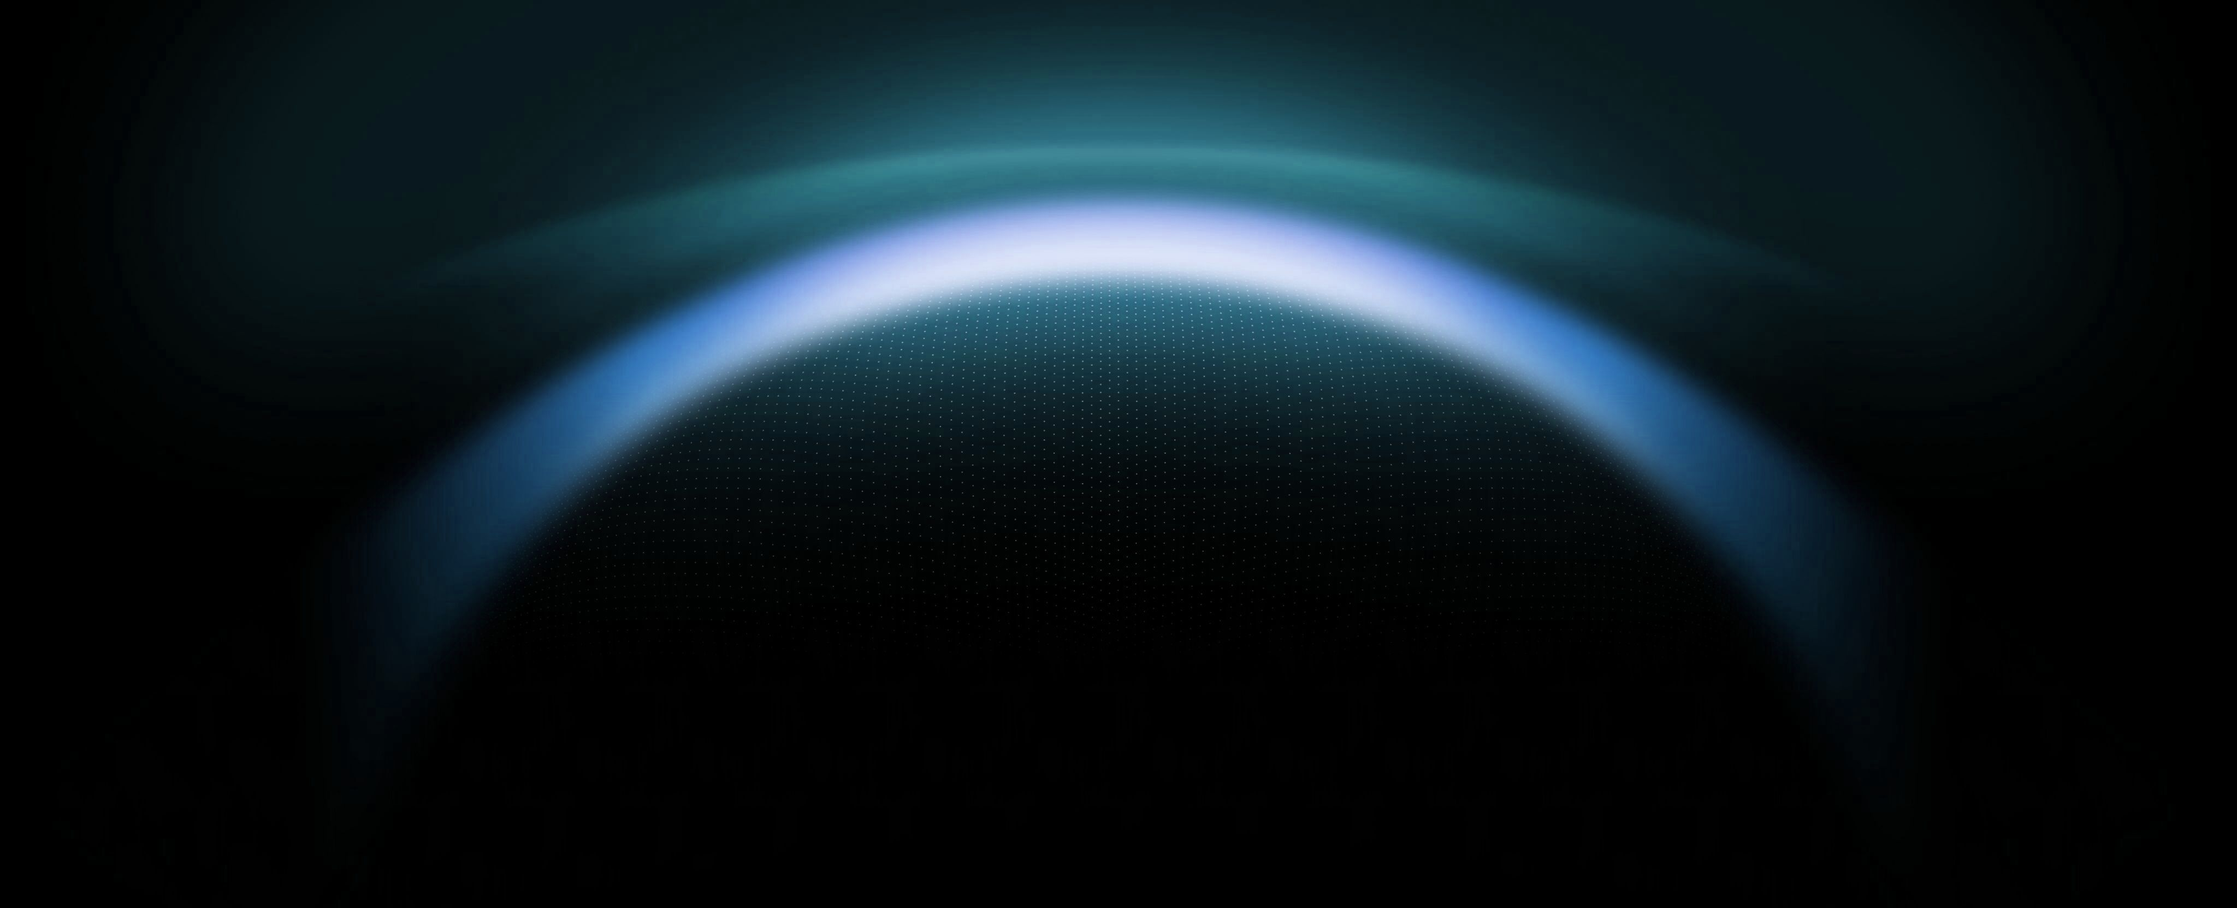
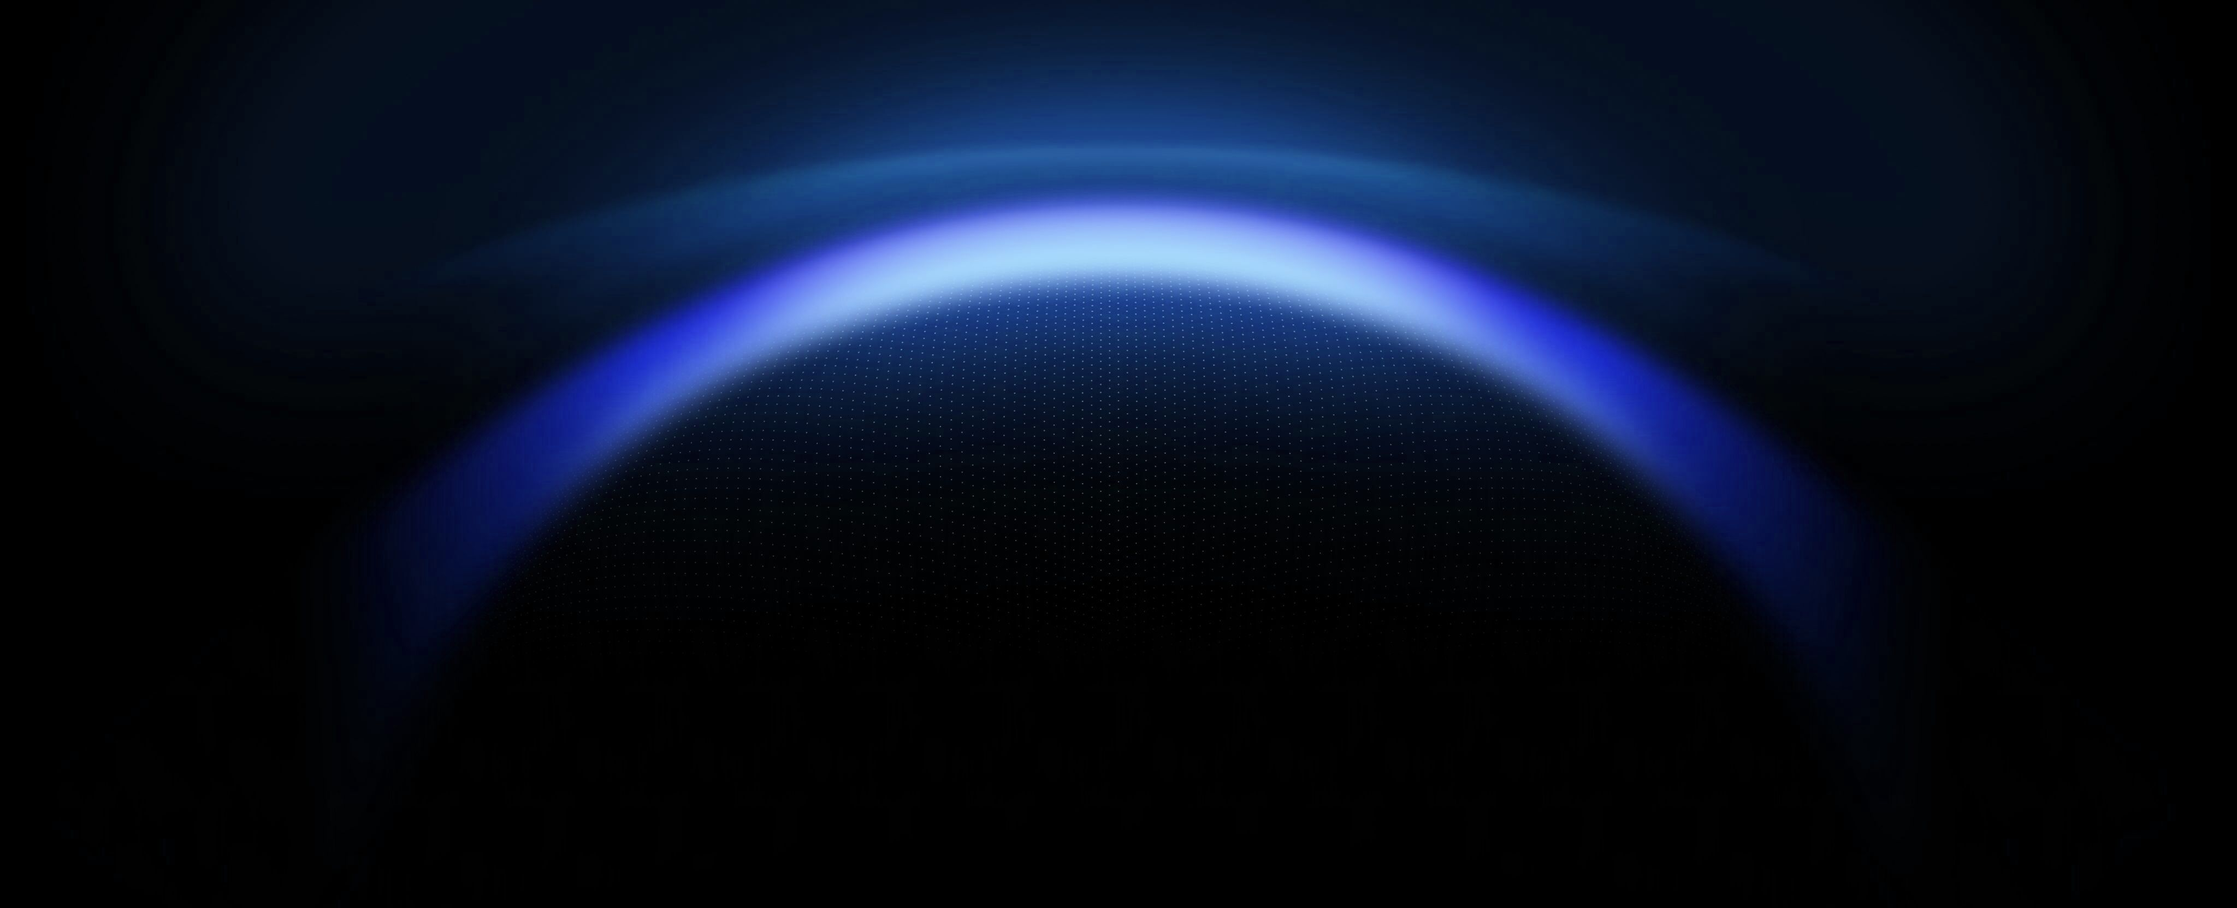
ui: reprocess all assets with hue shift + red channel reduction, derive CSS from image tones
Replaced the simple hue-shift technique with a two-step approach:
modulate hue ~36° plus 25% red channel reduction. This eliminates
purple completely and produces clean indigo-blue (#4564AC at 222°).

All CSS accent colors now derived from the actual image palette:
- Labels/text: #7B9AD4 (light blue, readable)
- Dots/indicators: #5A7BC0 (medium blue)
- Buttons: #4564AC gradient (matches hero bright band)
- Glows: rgba(69,100,172,...) (image-derived)
- Gradient strips: via-[#4564AC] (image accent)

Changed region(s): [[0.1875, 0.0613, 0.8125, 0.6133]]

diff --git a/website/src/app/version-1/page.tsx b/website/src/app/version-1/page.tsx
@@ -22,7 +22,7 @@ function Typewriter({ text, speed = 100 }: { text: string; speed?: number }) {
     <>
       {displayed}
       <span
-        className={`inline-block w-[2px] h-[0.9em] bg-[#adc9f0] align-middle ml-0.5 ${done ? "animate-blink" : ""}`}
+        className={`inline-block w-[2px] h-[0.9em] bg-[#5A7BC0] align-middle ml-0.5 ${done ? "animate-blink" : ""}`}
         aria-hidden="true"
       />
     </>
@@ -48,11 +48,11 @@ function CopyButton() {
         setCopied(true);
         setTimeout(() => setCopied(false), 2000);
       }}
-      className="flex items-center gap-1.5 px-3 py-1.5 bg-[#0c0c2a] hover:bg-[#181845] text-gray-400 hover:text-white text-xs font-mono rounded border border-[#adc9f0]/20 transition-all duration-200"
+      className="flex items-center gap-1.5 px-3 py-1.5 bg-[#0c0c2a] hover:bg-[#181845] text-gray-400 hover:text-white text-xs font-mono rounded border border-[#4564AC]/20 transition-all duration-200"
     >
       {copied ? (
         <>
-          <svg xmlns="http://www.w3.org/2000/svg" width="12" height="12" viewBox="0 0 24 24" fill="none" stroke="currentColor" strokeWidth="2" strokeLinecap="round" strokeLinejoin="round" className="text-[#adc9f0]"><polyline points="20 6 9 17 4 12"/></svg>
+          <svg xmlns="http://www.w3.org/2000/svg" width="12" height="12" viewBox="0 0 24 24" fill="none" stroke="currentColor" strokeWidth="2" strokeLinecap="round" strokeLinejoin="round" className="text-[#7B9AD4]"><polyline points="20 6 9 17 4 12"/></svg>
           copied
         </>
       ) : (
@@ -97,7 +97,7 @@ export default function VersionOne() {
         </div>
         <a
           href="#install"
-          className="rounded-full bg-gradient-to-r from-[#212177] to-[#3535a0] text-white px-5 py-2 text-sm font-medium transition-all duration-200 hover:shadow-[0_0_24px_rgba(173,201,240,0.3)] hover:from-[#3535a0] hover:to-[#4848b5]"
+          className="rounded-full bg-gradient-to-r from-[#3a5599] to-[#4564AC] text-white px-5 py-2 text-sm font-medium transition-all duration-200 hover:shadow-[0_0_24px_rgba(69,100,172,0.4)] hover:from-[#4564AC] hover:to-[#5A7BC0]"
         >
           Get started
         </a>
@@ -116,7 +116,7 @@ export default function VersionOne() {
         <div className="mt-10 flex justify-center gap-4 flex-wrap">
           <a
             href="#install"
-            className="rounded-full bg-gradient-to-r from-[#6b8fd4] to-[#adc9f0] text-[#010118] px-8 py-3.5 text-base font-medium transition-all duration-200 hover:shadow-[0_0_30px_rgba(173,201,240,0.5)] hover:brightness-110"
+            className="rounded-full bg-gradient-to-r from-[#4564AC] to-[#7B9AD4] text-white px-8 py-3.5 text-base font-medium transition-all duration-200 hover:shadow-[0_0_30px_rgba(69,100,172,0.5)] hover:brightness-110"
           >
             Start building
           </a>
@@ -155,13 +155,13 @@ export default function VersionOne() {
         <div
           className="pointer-events-none absolute left-1/2 -translate-x-1/2 top-1/2 -translate-y-1/2 w-[1000px] h-[600px] opacity-20 blur-3xl"
           style={{
-            background: "radial-gradient(ellipse at center, rgba(173,201,240,0.3) 0%, transparent 70%)",
+            background: "radial-gradient(ellipse at center, rgba(69,100,172,0.3) 0%, transparent 70%)",
           }}
         />
 
         <div className="max-w-6xl mx-auto relative">
           <div className="text-center mb-16">
-            <p className="text-sm font-mono uppercase tracking-widest text-[#adc9f0] mb-3">Capabilities</p>
+            <p className="text-sm font-mono uppercase tracking-widest text-[#7B9AD4] mb-3">Capabilities</p>
             <h2 className="text-3xl md:text-4xl font-bold mb-4">
               Talk naturally. Get quantified.
             </h2>
@@ -175,7 +175,7 @@ export default function VersionOne() {
           {/* Card 1 — Nutrition */}
           <div className="relative overflow-hidden rounded-xl border border-white/5 bg-[#080822] p-6 pb-8 min-h-[340px]">
             <div className="relative z-10">
-              <p className="text-xs font-bold uppercase tracking-widest text-[#adc9f0] mb-2">Nutrition</p>
+              <p className="text-xs font-bold uppercase tracking-widest text-[#7B9AD4] mb-2">Nutrition</p>
               <h3 className="text-xl font-bold text-white mb-3">Meal Snap</h3>
               <p className="text-sm text-gray-400 leading-relaxed max-w-[70%] drop-shadow-md">
                 Send a food photo or describe what you ate. Full micronutrient breakdown in seconds.
@@ -190,7 +190,7 @@ export default function VersionOne() {
           {/* Card 2 — Wearables */}
           <div className="relative overflow-hidden rounded-xl border border-white/5 bg-[#080822] p-6 pb-8 min-h-[340px]">
             <div className="relative z-10">
-              <p className="text-xs font-bold uppercase tracking-widest text-[#adc9f0] mb-2">Wearables</p>
+              <p className="text-xs font-bold uppercase tracking-widest text-[#7B9AD4] mb-2">Wearables</p>
               <h3 className="text-xl font-bold text-white mb-3">Pattern Insights</h3>
               <p className="text-sm text-gray-400 leading-relaxed max-w-[70%] drop-shadow-md">
                 Cross-references sleep, HRV, nutrition, and activity to surface hidden correlations.
@@ -205,7 +205,7 @@ export default function VersionOne() {
           {/* Card 3 — Coaching */}
           <div className="relative overflow-hidden rounded-xl border border-white/5 bg-[#080822] p-6 pb-8 min-h-[340px]">
             <div className="relative z-10">
-              <p className="text-xs font-bold uppercase tracking-widest text-[#adc9f0] mb-2">Coaching</p>
+              <p className="text-xs font-bold uppercase tracking-widest text-[#7B9AD4] mb-2">Coaching</p>
               <h3 className="text-xl font-bold text-white mb-3">Daily Coach</h3>
               <p className="text-sm text-gray-400 leading-relaxed max-w-[70%] drop-shadow-md">
                 Morning briefing with overnight sleep, nutrition gaps, active experiments, and longevity news.
@@ -219,8 +219,8 @@ export default function VersionOne() {
           </div>
 
           {/* Blue glow strip beneath cards */}
-          <div className="pointer-events-none absolute bottom-0 left-1/2 -translate-x-1/2 w-full max-w-3xl h-[1px] bg-gradient-to-r from-transparent via-[#adc9f0]/30 to-transparent" />
-          <div className="pointer-events-none absolute bottom-0 left-1/2 -translate-x-1/2 w-full max-w-3xl h-24 -translate-y-1/2 bg-[#adc9f0]/15 blur-[50px] -z-10" />
+          <div className="pointer-events-none absolute bottom-0 left-1/2 -translate-x-1/2 w-full max-w-3xl h-[1px] bg-gradient-to-r from-transparent via-[#4564AC]/30 to-transparent" />
+          <div className="pointer-events-none absolute bottom-0 left-1/2 -translate-x-1/2 w-full max-w-3xl h-24 -translate-y-1/2 bg-[#5A7BC0]/15 blur-[50px] -z-10" />
         </div>
       </section>
 
@@ -229,13 +229,13 @@ export default function VersionOne() {
         <div
           className="pointer-events-none absolute left-1/2 -translate-x-1/2 top-1/3 w-[1200px] h-[800px] opacity-15 blur-3xl"
           style={{
-            background: "radial-gradient(ellipse at center, rgba(173,201,240,0.3) 0%, transparent 70%)",
+            background: "radial-gradient(ellipse at center, rgba(69,100,172,0.3) 0%, transparent 70%)",
           }}
         />
 
         <div className="max-w-6xl mx-auto relative">
           <div className="text-center mb-16">
-            <p className="text-sm font-mono uppercase tracking-widest text-[#adc9f0] mb-3">Proactive Intelligence</p>
+            <p className="text-sm font-mono uppercase tracking-widest text-[#7B9AD4] mb-3">Proactive Intelligence</p>
             <h2 className="text-3xl md:text-4xl font-bold mb-4">
               Your agent thinks ahead
             </h2>
@@ -250,8 +250,8 @@ export default function VersionOne() {
               <div className="lg:col-span-7 relative z-10 order-2 lg:order-1">
                 <div className="flex items-center gap-3 mb-3 ml-1">
                   <div className="flex items-center gap-2">
-                    <span className="w-1.5 h-1.5 rounded-full bg-[#adc9f0] shadow-[0_0_8px_rgba(173,201,240,0.8)]" />
-                    <span className="text-[#adc9f0] text-xs font-mono uppercase tracking-widest">Weekly Review</span>
+                    <span className="w-1.5 h-1.5 rounded-full bg-[#5A7BC0] shadow-[0_0_8px_rgba(69,100,172,0.8)]" />
+                    <span className="text-[#7B9AD4] text-xs font-mono uppercase tracking-widest">Weekly Review</span>
                   </div>
                   <span className="text-gray-600 font-mono text-xs">/</span>
                   <span className="text-gray-500 text-xs font-mono">Sunday 8:00 AM</span>
@@ -308,7 +308,7 @@ export default function VersionOne() {
               </div>
 
               <div className="lg:col-span-5 flex justify-center relative min-h-[280px] order-1 lg:order-2">
-                <div className="absolute top-1/2 left-1/2 -translate-x-1/2 -translate-y-1/2 w-[300px] h-[300px] bg-[#adc9f0]/15 blur-[100px] pointer-events-none rounded-full" />
+                <div className="absolute top-1/2 left-1/2 -translate-x-1/2 -translate-y-1/2 w-[300px] h-[300px] bg-[#5A7BC0]/15 blur-[100px] pointer-events-none rounded-full" />
                 <img src="/showcase-nutrition-compound.png" alt="" className="absolute top-1/2 left-1/2 -translate-x-1/2 -translate-y-1/2 w-[320px] h-[320px] object-contain pointer-events-none" />
               </div>
             </div>
@@ -318,15 +318,15 @@ export default function VersionOne() {
           <div className="relative mb-8">
             <div className="relative rounded-xl border border-white/5 bg-[#04041a] overflow-hidden grid grid-cols-1 lg:grid-cols-12 items-center gap-8 p-6 lg:p-10 shadow-2xl backdrop-blur-sm">
               <div className="lg:col-span-5 flex justify-center relative min-h-[280px]">
-                <div className="absolute top-1/2 left-1/2 -translate-x-1/2 -translate-y-1/2 w-[300px] h-[300px] bg-[#adc9f0]/8 blur-[100px] pointer-events-none rounded-full" />
+                <div className="absolute top-1/2 left-1/2 -translate-x-1/2 -translate-y-1/2 w-[300px] h-[300px] bg-[#5A7BC0]/8 blur-[100px] pointer-events-none rounded-full" />
                 <img src="/showcase-patterns-compound.png" alt="" className="absolute top-1/2 left-1/2 -translate-x-1/2 -translate-y-1/2 w-[320px] h-[320px] object-contain pointer-events-none" />
               </div>
 
               <div className="lg:col-span-7 relative z-10">
                 <div className="flex items-center gap-3 mb-3 ml-1">
                   <div className="flex items-center gap-2">
-                    <span className="w-1.5 h-1.5 rounded-full bg-[#adc9f0] shadow-[0_0_8px_rgba(173,201,240,0.8)]" />
-                    <span className="text-[#adc9f0] text-xs font-mono uppercase tracking-widest">Pattern Detected</span>
+                    <span className="w-1.5 h-1.5 rounded-full bg-[#5A7BC0] shadow-[0_0_8px_rgba(69,100,172,0.8)]" />
+                    <span className="text-[#7B9AD4] text-xs font-mono uppercase tracking-widest">Pattern Detected</span>
                   </div>
                   <span className="text-gray-600 font-mono text-xs">/</span>
                   <span className="text-gray-500 text-xs font-mono">Wednesday 7:15 AM</span>
@@ -339,7 +339,7 @@ export default function VersionOne() {
 
                   <div className="space-y-3 mb-6">
                     <div className="flex items-start gap-3 bg-white/[0.02] rounded-lg p-4 border border-white/5">
-                      <div className="mt-0.5 text-[#adc9f0]">
+                      <div className="mt-0.5 text-[#7B9AD4]">
                         <svg xmlns="http://www.w3.org/2000/svg" width="16" height="16" viewBox="0 0 24 24" fill="none" stroke="currentColor" strokeWidth="2" strokeLinecap="round" strokeLinejoin="round"><path d="M17 8h1a4 4 0 1 1 0 8h-1"/><path d="M3 8h14v9a4 4 0 0 1-4 4H7a4 4 0 0 1-4-4Z"/><line x1="6" y1="2" x2="6" y2="4"/><line x1="10" y1="2" x2="10" y2="4"/><line x1="14" y1="2" x2="14" y2="4"/></svg>
                       </div>
                       <div>
@@ -348,7 +348,7 @@ export default function VersionOne() {
                       </div>
                     </div>
                     <div className="flex items-start gap-3 bg-white/[0.02] rounded-lg p-4 border border-white/5">
-                      <div className="mt-0.5 text-[#adc9f0]">
+                      <div className="mt-0.5 text-[#7B9AD4]">
                         <svg xmlns="http://www.w3.org/2000/svg" width="16" height="16" viewBox="0 0 24 24" fill="none" stroke="currentColor" strokeWidth="2" strokeLinecap="round" strokeLinejoin="round"><path d="M17.8 19.2 16 11l3.5-3.5C21 6 21.5 4 21 3c-.5-.5-2.5 0-4.5 1.5L13 8 4.8 6.2c-.5-.1-.9.2-1.1.7l-1.2 3.6c-.1.4.1.9.5 1.1L9 14l-3 3-3.5-.5c-.4-.1-.8.1-1 .5l-.5 1.5c-.1.3.1.7.4.8l4.6 1.9 1.9 4.6c.1.3.5.5.8.4l1.5-.5c.4-.2.6-.6.5-1l-.5-3.5 3-3 2.4 6c.2.4.7.6 1.1.5l3.6-1.2c.5-.2.8-.6.7-1.1Z"/></svg>
                       </div>
                       <div>
@@ -372,8 +372,8 @@ export default function VersionOne() {
               <div className="lg:col-span-7 relative z-10 order-2 lg:order-1">
                 <div className="flex items-center gap-3 mb-3 ml-1">
                   <div className="flex items-center gap-2">
-                    <span className="w-1.5 h-1.5 rounded-full bg-[#adc9f0] shadow-[0_0_8px_rgba(173,201,240,0.8)]" />
-                    <span className="text-[#adc9f0] text-xs font-mono uppercase tracking-widest">New Data Unlocked</span>
+                    <span className="w-1.5 h-1.5 rounded-full bg-[#5A7BC0] shadow-[0_0_8px_rgba(69,100,172,0.8)]" />
+                    <span className="text-[#7B9AD4] text-xs font-mono uppercase tracking-widest">New Data Unlocked</span>
                   </div>
                   <span className="text-gray-600 font-mono text-xs">/</span>
                   <span className="text-gray-500 text-xs font-mono">Oct 25, 3:42 PM</span>
@@ -436,15 +436,15 @@ export default function VersionOne() {
               </div>
 
               <div className="lg:col-span-5 flex justify-center relative min-h-[280px] order-1 lg:order-2">
-                <div className="absolute top-1/2 left-1/2 -translate-x-1/2 -translate-y-1/2 w-[300px] h-[300px] bg-[#adc9f0]/8 blur-[100px] pointer-events-none rounded-full" />
+                <div className="absolute top-1/2 left-1/2 -translate-x-1/2 -translate-y-1/2 w-[300px] h-[300px] bg-[#5A7BC0]/8 blur-[100px] pointer-events-none rounded-full" />
                 <img src="/showcase-integration-compound.png" alt="" className="absolute top-1/2 left-1/2 -translate-x-1/2 -translate-y-1/2 w-[320px] h-[320px] object-contain pointer-events-none" />
               </div>
             </div>
           </div>
 
           {/* Blue glow strip beneath showcase cards */}
-          <div className="pointer-events-none absolute bottom-0 left-1/2 -translate-x-1/2 w-full max-w-3xl h-[1px] bg-gradient-to-r from-transparent via-[#adc9f0]/30 to-transparent" />
-          <div className="pointer-events-none absolute bottom-0 left-1/2 -translate-x-1/2 w-full max-w-3xl h-24 -translate-y-1/2 bg-[#adc9f0]/15 blur-[50px] -z-10" />
+          <div className="pointer-events-none absolute bottom-0 left-1/2 -translate-x-1/2 w-full max-w-3xl h-[1px] bg-gradient-to-r from-transparent via-[#4564AC]/30 to-transparent" />
+          <div className="pointer-events-none absolute bottom-0 left-1/2 -translate-x-1/2 w-full max-w-3xl h-24 -translate-y-1/2 bg-[#5A7BC0]/15 blur-[50px] -z-10" />
         </div>
       </section>
 
@@ -454,14 +454,14 @@ export default function VersionOne() {
         <div
           className="pointer-events-none absolute left-1/2 -translate-x-1/2 bottom-0 w-[800px] h-[400px] opacity-15 blur-3xl"
           style={{
-            background: "radial-gradient(ellipse at center, rgba(173,201,240,0.4) 0%, transparent 70%)",
+            background: "radial-gradient(ellipse at center, rgba(69,100,172,0.4) 0%, transparent 70%)",
           }}
         />
 
         <div className="max-w-6xl mx-auto relative">
           <div className="grid grid-cols-1 lg:grid-cols-2 gap-12 lg:gap-20 items-center pb-8">
             <div>
-              <p className="text-sm font-mono uppercase tracking-widest text-[#adc9f0] mb-3">Get Started</p>
+              <p className="text-sm font-mono uppercase tracking-widest text-[#7B9AD4] mb-3">Get Started</p>
               <h2 className="text-3xl md:text-5xl font-bold mb-6">
                 Install in one prompt
               </h2>
@@ -493,8 +493,8 @@ export default function VersionOne() {
           </div>
 
           {/* Blue glow strip beneath install section */}
-          <div className="pointer-events-none absolute bottom-0 left-1/2 -translate-x-1/2 w-full max-w-3xl h-[1px] bg-gradient-to-r from-transparent via-[#adc9f0]/30 to-transparent" />
-          <div className="pointer-events-none absolute bottom-0 left-1/2 -translate-x-1/2 w-full max-w-3xl h-24 -translate-y-1/2 bg-[#adc9f0]/15 blur-[50px] -z-10" />
+          <div className="pointer-events-none absolute bottom-0 left-1/2 -translate-x-1/2 w-full max-w-3xl h-[1px] bg-gradient-to-r from-transparent via-[#4564AC]/30 to-transparent" />
+          <div className="pointer-events-none absolute bottom-0 left-1/2 -translate-x-1/2 w-full max-w-3xl h-24 -translate-y-1/2 bg-[#5A7BC0]/15 blur-[50px] -z-10" />
         </div>
       </section>
 
@@ -506,7 +506,7 @@ export default function VersionOne() {
             <div className="relative group order-2 lg:order-1">
               <div className="relative bg-[#04041a] border border-white/5 rounded-xl p-6 lg:p-8 font-mono text-sm overflow-x-auto shadow-2xl backdrop-blur-sm">
                 <div className="flex items-center gap-2 mb-6 pb-4 border-b border-white/5">
-                  <svg xmlns="http://www.w3.org/2000/svg" width="16" height="16" viewBox="0 0 24 24" fill="none" stroke="currentColor" strokeWidth="2" strokeLinecap="round" strokeLinejoin="round" className="text-[#adc9f0]"><path d="M22 19a2 2 0 0 1-2 2H4a2 2 0 0 1-2-2V5a2 2 0 0 1 2-2h5l2 3h9a2 2 0 0 1 2 2z"/></svg>
+                  <svg xmlns="http://www.w3.org/2000/svg" width="16" height="16" viewBox="0 0 24 24" fill="none" stroke="currentColor" strokeWidth="2" strokeLinecap="round" strokeLinejoin="round" className="text-[#7B9AD4]"><path d="M22 19a2 2 0 0 1-2 2H4a2 2 0 0 1-2-2V5a2 2 0 0 1 2-2h5l2 3h9a2 2 0 0 1 2 2z"/></svg>
                   <span className="text-gray-300">longevityOS-data/</span>
                 </div>
                 <pre className="text-gray-300 leading-relaxed text-xs sm:text-sm">
@@ -524,7 +524,7 @@ export default function VersionOne() {
             </div>
 
             <div className="order-1 lg:order-2">
-              <p className="text-sm font-mono uppercase tracking-widest text-[#adc9f0] mb-3">Architecture</p>
+              <p className="text-sm font-mono uppercase tracking-widest text-[#7B9AD4] mb-3">Architecture</p>
               <h2 className="text-3xl md:text-5xl font-bold mb-6">
                 Local-first.<br />No cloud required.
               </h2>
@@ -533,13 +533,13 @@ export default function VersionOne() {
               </p>
               <ul className="space-y-4">
                 <li className="flex items-center gap-3 text-gray-300">
-                  <div className="w-1.5 h-1.5 rounded-full bg-[#adc9f0] shadow-[0_0_10px_rgba(173,201,240,0.8)]" /> Portable CSV & JSON formats
+                  <div className="w-1.5 h-1.5 rounded-full bg-[#5A7BC0] shadow-[0_0_10px_rgba(69,100,172,0.8)]" /> Portable CSV & JSON formats
                 </li>
                 <li className="flex items-center gap-3 text-gray-300">
-                  <div className="w-1.5 h-1.5 rounded-full bg-[#adc9f0] shadow-[0_0_10px_rgba(173,201,240,0.8)]" /> Works completely offline
+                  <div className="w-1.5 h-1.5 rounded-full bg-[#5A7BC0] shadow-[0_0_10px_rgba(69,100,172,0.8)]" /> Works completely offline
                 </li>
                 <li className="flex items-center gap-3 text-gray-300">
-                  <div className="w-1.5 h-1.5 rounded-full bg-[#adc9f0] shadow-[0_0_10px_rgba(173,201,240,0.8)]" /> Easily scriptable with Python/Bash
+                  <div className="w-1.5 h-1.5 rounded-full bg-[#5A7BC0] shadow-[0_0_10px_rgba(69,100,172,0.8)]" /> Easily scriptable with Python/Bash
                 </li>
               </ul>
             </div>
@@ -547,8 +547,8 @@ export default function VersionOne() {
           </div>
 
           {/* Blue glow strip beneath local-first section */}
-          <div className="pointer-events-none absolute bottom-0 left-1/2 -translate-x-1/2 w-full max-w-3xl h-[1px] bg-gradient-to-r from-transparent via-[#adc9f0]/30 to-transparent" />
-          <div className="pointer-events-none absolute bottom-0 left-1/2 -translate-x-1/2 w-full max-w-3xl h-24 -translate-y-1/2 bg-[#adc9f0]/15 blur-[50px] -z-10" />
+          <div className="pointer-events-none absolute bottom-0 left-1/2 -translate-x-1/2 w-full max-w-3xl h-[1px] bg-gradient-to-r from-transparent via-[#4564AC]/30 to-transparent" />
+          <div className="pointer-events-none absolute bottom-0 left-1/2 -translate-x-1/2 w-full max-w-3xl h-24 -translate-y-1/2 bg-[#5A7BC0]/15 blur-[50px] -z-10" />
         </div>
       </section>
 
